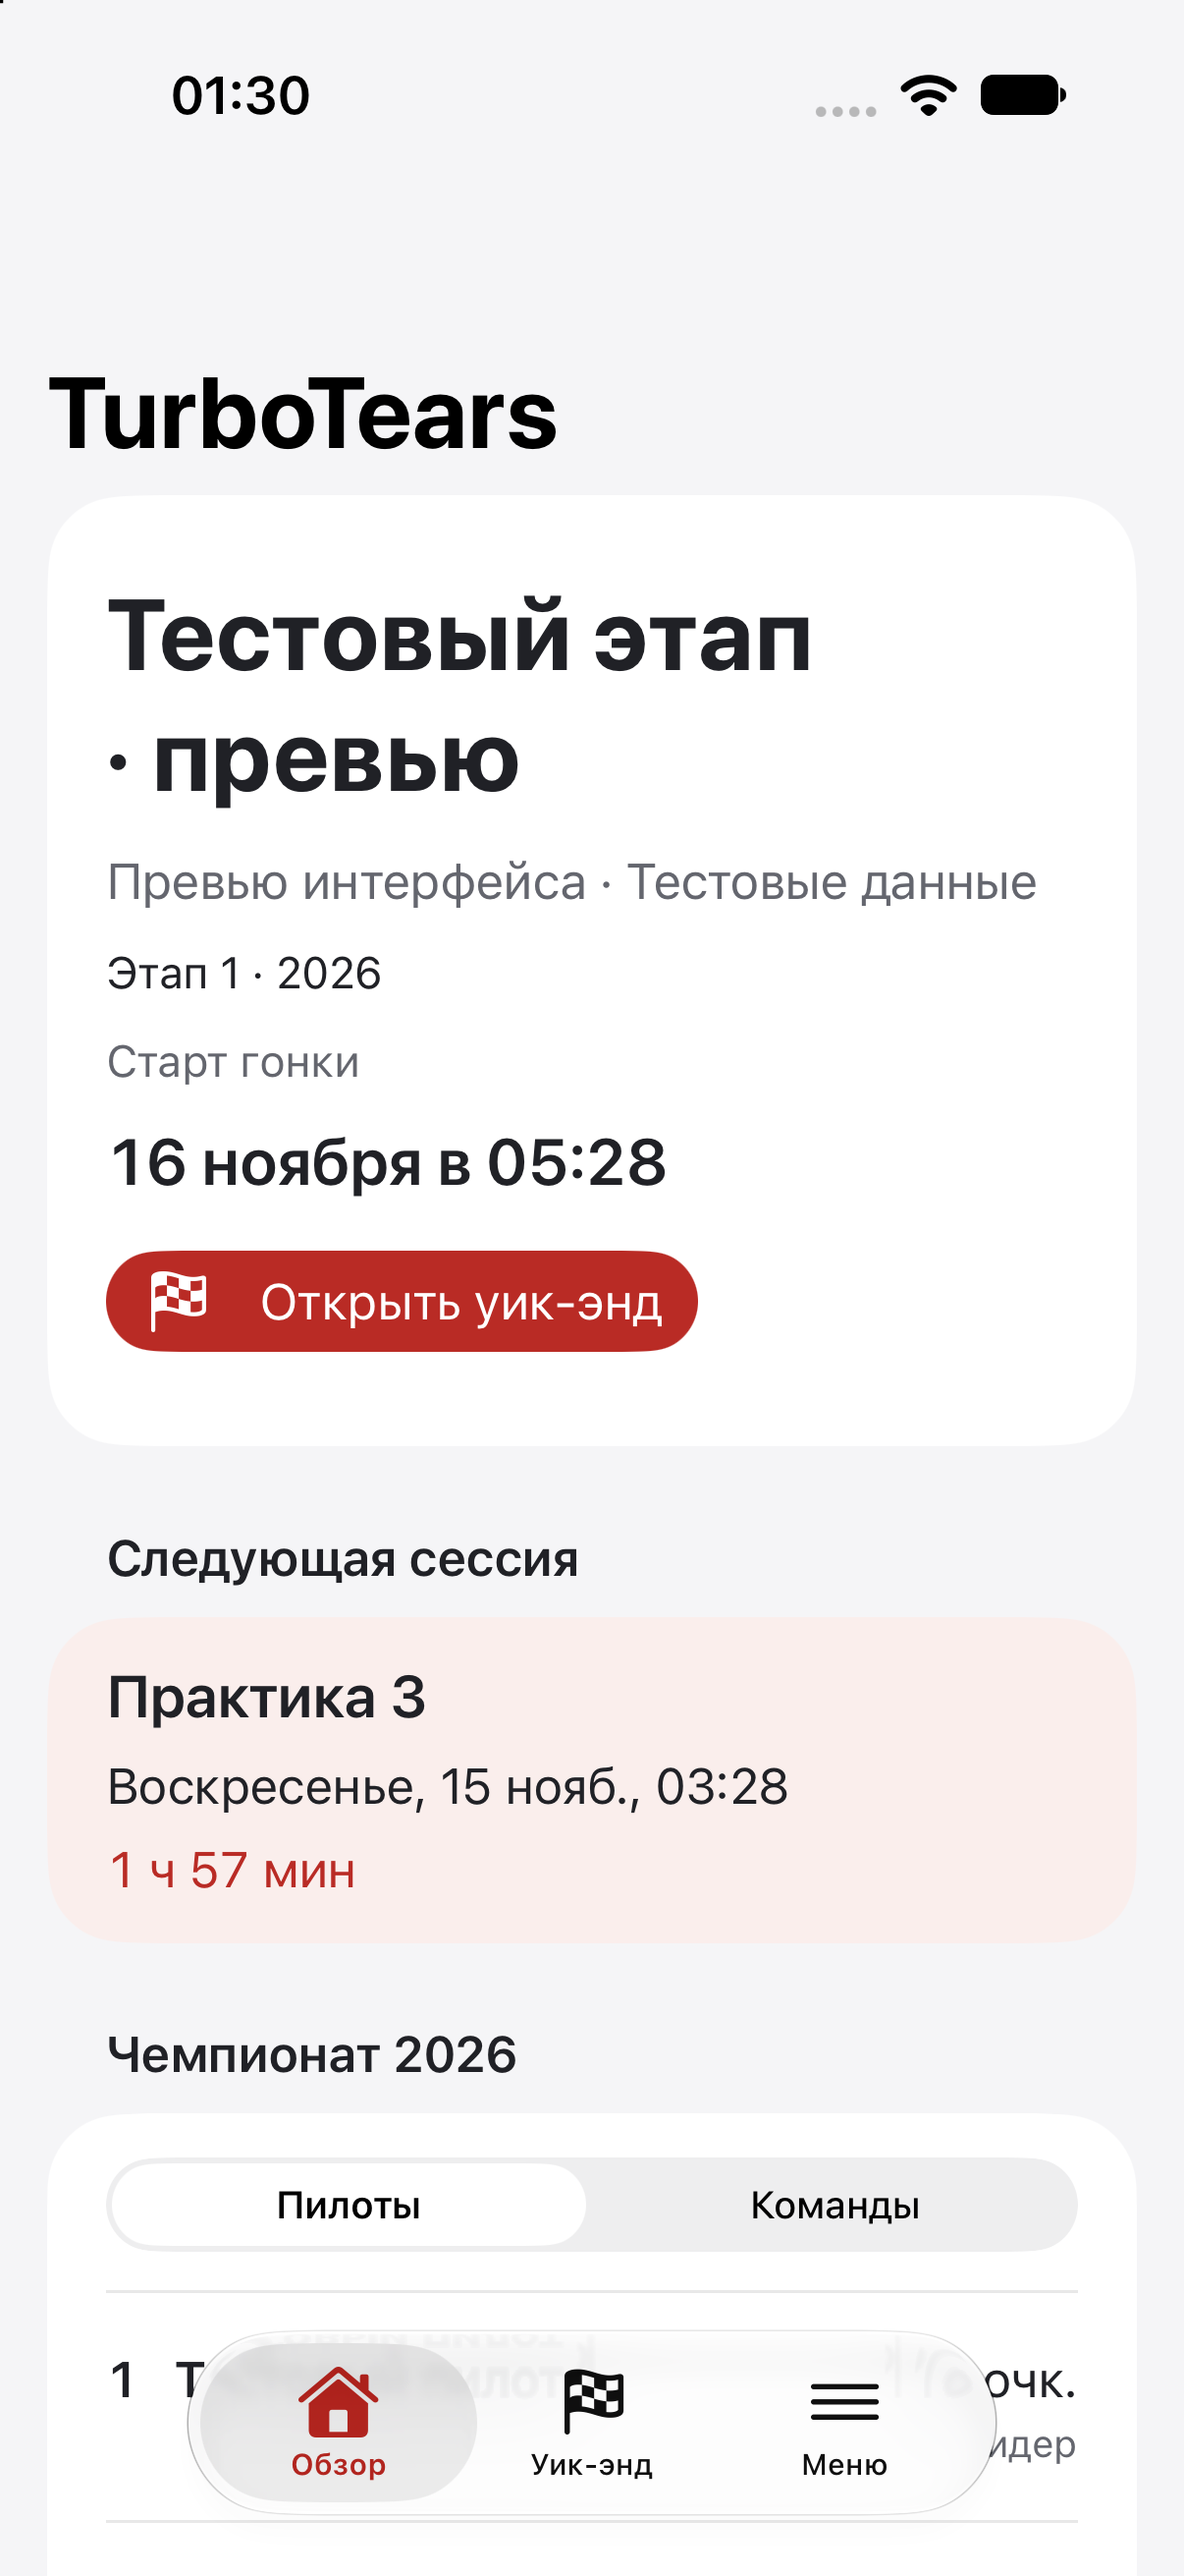
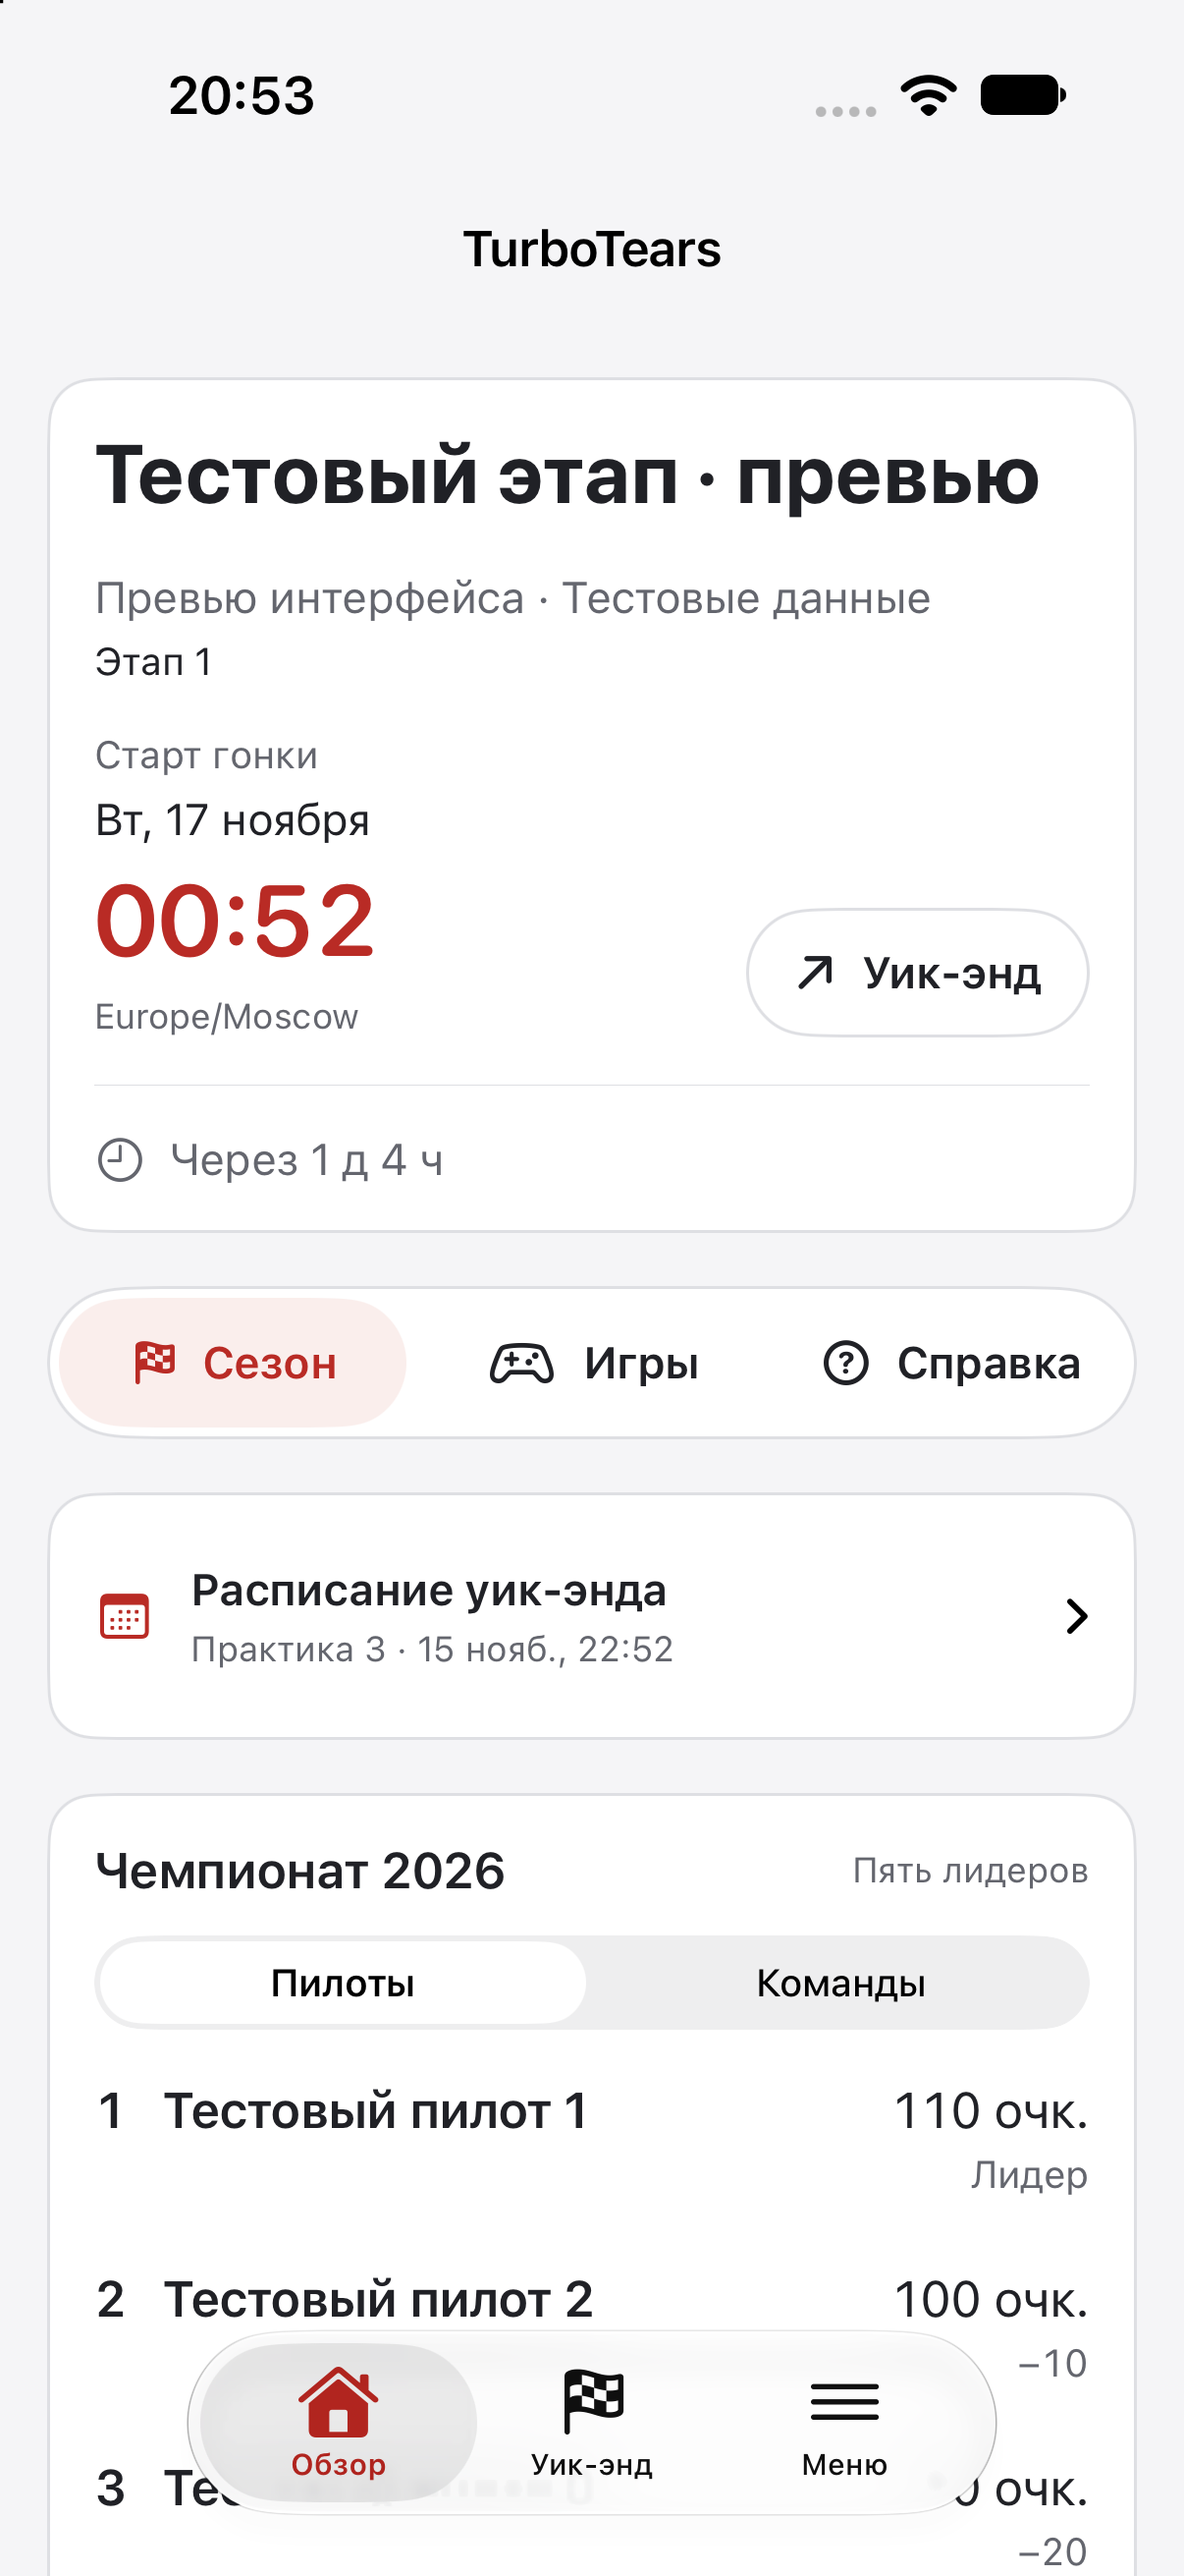
Обновить сценарии и снимки проверки мобильной главной
Добавить превью выбранных трасс и контрольные снимки тем, расписания и стеклянных переключателей. Сохранить результат проверки на актуальных публичных данных сервера.

diff --git a/ios/Preview/server.py b/ios/Preview/server.py
@@ -4,9 +4,17 @@ Run: python3 ios/Preview/server.py (port 18765).
 from datetime import datetime, timedelta, timezone
 from http.server import BaseHTTPRequestHandler, HTTPServer
 import json
+import os
 from urllib.parse import urlparse, parse_qs
 
 NOW = datetime.now(timezone.utc)
+VENUES = {
+    "las-vegas": ("Las Vegas Grand Prix", "United States", "Превью · Las Vegas"),
+    "monaco": ("Monaco Grand Prix", "Monaco", "Превью · Monte Carlo"),
+    "japan": ("Japanese Grand Prix", "Japan", "Превью · Suzuka"),
+}
+VENUE = VENUES.get(os.environ.get("TURBOTEARS_PREVIEW_VENUE"),
+                   ("Тестовый этап · превью", "Тестовые данные", "Превью интерфейса"))
 SESSIONS = [
     {"code": code, "source_name": name, "starts_at": (NOW + timedelta(hours=offset)).isoformat()}
     for code, name, offset in [("practice_1", "Practice 1", -24), ("practice_2", "Practice 2", -20),
@@ -22,8 +30,8 @@ class Handler(BaseHTTPRequestHandler):
         round_number = int(query.get("round", [1])[0])
         if url.path == '/api/v1/weekend':
             data = {"status": "ok", "season": season, "schedule_status": "available", "sessions": SESSIONS,
-                    "event": {"id": f"{season}:{round_number}", "round": round_number, "name": "Тестовый этап · превью",
-                              "country": "Тестовые данные", "location": "Превью интерфейса", "date": NOW.date().isoformat(),
+                    "event": {"id": f"{season}:{round_number}", "round": round_number, "name": VENUE[0],
+                              "country": VENUE[1], "location": VENUE[2], "date": NOW.date().isoformat(),
                               "starts_at": SESSIONS[-1]["starts_at"], "is_cancelled": False}}
         elif url.path in ['/api/drivers', '/api/constructors']:
             key = url.path.split('/')[-1]
